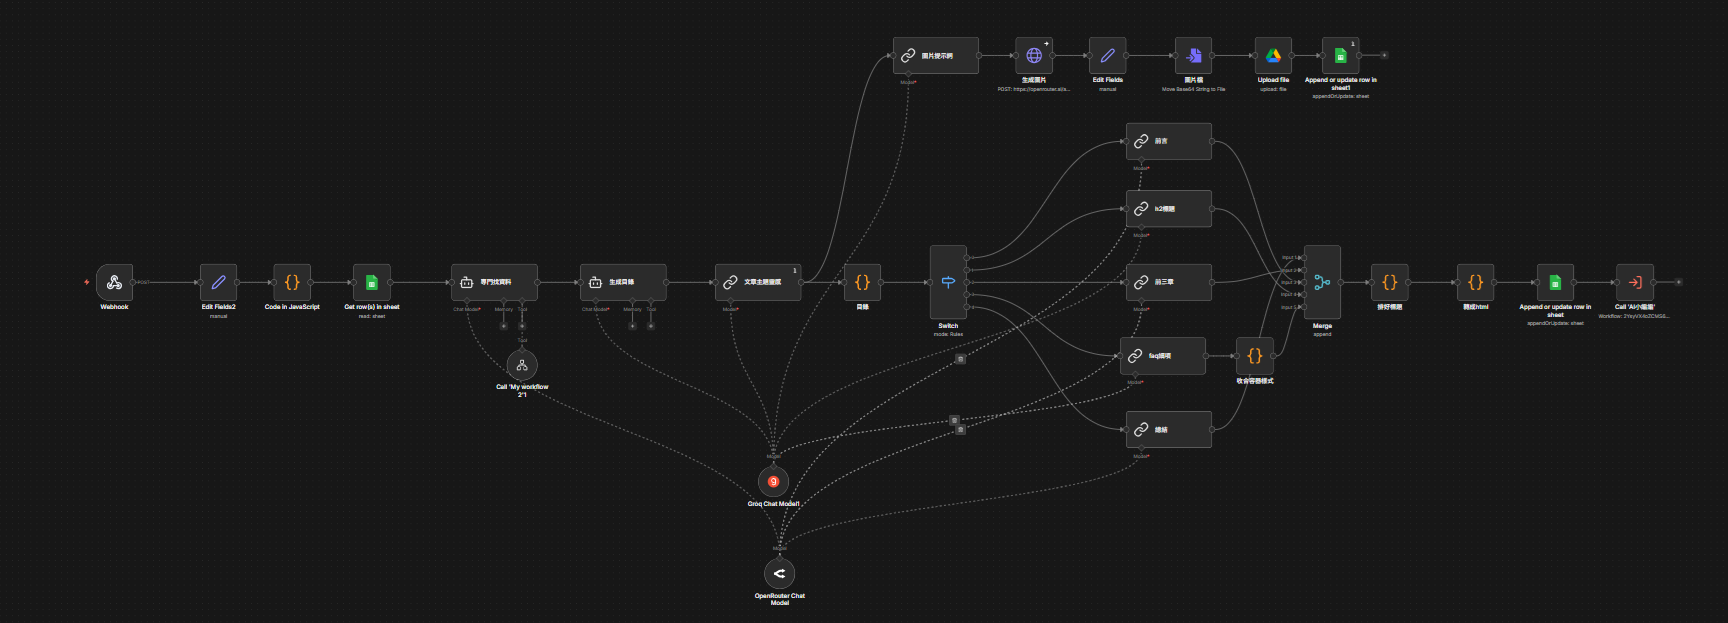
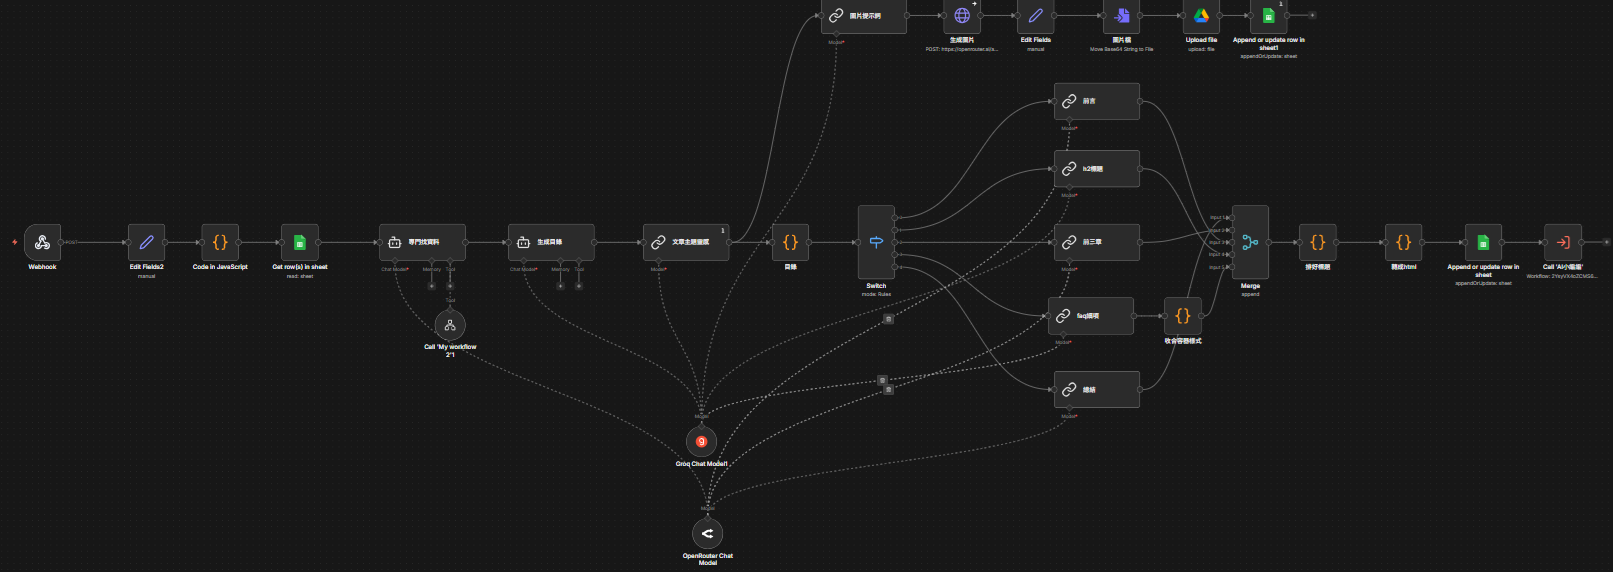
feat: 新增作品集「新聞電子報工作流」+ 修正各作品截圖空白裁切

diff --git a/components/portfolio/PortfolioTabs.tsx b/components/portfolio/PortfolioTabs.tsx
@@ -100,6 +100,36 @@ function MarketingIcon({ active }: { active: boolean }) {
   )
 }
 
+function NewsletterIcon({ active }: { active: boolean }) {
+  return (
+    <svg viewBox="0 0 32 32" width={22} height={22} style={{ display: 'block' }}>
+      <defs>
+        <linearGradient id="p-newsletter-grad" x1="0" y1="0" x2="32" y2="32" gradientUnits="userSpaceOnUse">
+          <stop offset="0%" stopColor="#22c55e" />
+          <stop offset="100%" stopColor="#86efac" />
+        </linearGradient>
+      </defs>
+      {/* clock / schedule trigger */}
+      <circle cx="8" cy="16" r="5"
+        fill={active ? 'rgba(34,197,94,0.2)' : 'none'}
+        stroke={active ? '#22c55e' : '#14532d'}
+        strokeWidth="1.5"
+      />
+      <path d="M8 13v3.5l2 1.5" stroke={active ? '#22c55e' : '#14532d'} strokeWidth="1.2" strokeLinecap="round" fill="none" />
+      {/* connector */}
+      <line x1="13" y1="16" x2="17" y2="16" stroke={active ? '#22c55e' : '#14532d'} strokeWidth="1.5" strokeLinecap="round" />
+      {/* envelope / email */}
+      <rect x="17" y="11" width="11" height="9" rx="1.5"
+        fill={active ? 'url(#p-newsletter-grad)' : 'none'}
+        stroke={active ? '#86efac' : '#14532d'}
+        strokeWidth="1.5"
+        opacity={active ? 0.9 : 1}
+      />
+      <path d="M17 12.5l5.5 4 5.5-4" stroke={active ? '#fff' : '#14532d'} strokeWidth="1" fill="none" strokeLinecap="round" />
+    </svg>
+  )
+}
+
 function SparklesIcon({ active }: { active: boolean }) {
   return (
     <svg viewBox="0 0 32 32" width={22} height={22} style={{ display: 'block' }}>
@@ -497,7 +527,7 @@ function ComingSoon() {
 
 /* ─── main component ─── */
 export default function PortfolioTabs() {
-  const [active, setActive] = useState<'teaching' | 'monitoring' | 'marketing' | 'more'>('teaching')
+  const [active, setActive] = useState<'teaching' | 'monitoring' | 'marketing' | 'newsletter' | 'more'>('teaching')
 
   const monitoringStack = [
     'Node.js', 'Express', 'React', 'Vite', 'SQLite', 'Docker', 'RESTful API', 'LINE Messaging API',
@@ -609,6 +639,13 @@ export default function PortfolioTabs() {
             label="行銷文章生成工作流"
             sub="n8n · 2026"
             onClick={() => setActive('marketing')}
+          />
+          <TabPill
+            active={active === 'newsletter'}
+            icon={<NewsletterIcon active={active === 'newsletter'} />}
+            label="新聞電子報工作流"
+            sub="n8n · 2026"
+            onClick={() => setActive('newsletter')}
           />
           <TabPill
             active={active === 'more'}
@@ -1072,6 +1109,211 @@ export default function PortfolioTabs() {
                     </div>
                   </div>
                 ))}
+              </div>
+            </div>
+          </div>
+        )}
+
+        {active === 'newsletter' && (
+          <div key="newsletter" style={{ animation: 'fade-in-up 300ms ease both' }}>
+
+            {/* row 1: title + workflow canvas */}
+            <div
+              style={{
+                display: 'grid',
+                gridTemplateColumns: 'minmax(0,42fr) minmax(0,58fr)',
+                gap: 48,
+                alignItems: 'start',
+                marginBottom: 40,
+              }}
+              className="portfolio-grid"
+            >
+              {/* left */}
+              <div style={{ order: 0 }}>
+                <div style={{ display: 'flex', alignItems: 'center', gap: 12, marginBottom: 16 }}>
+                  <StatusBadge status="已上線" />
+                </div>
+                <h2 style={{
+                  fontSize: 'clamp(22px, 3vw, 28px)', fontWeight: 700,
+                  color: '#fff', letterSpacing: '-0.02em', marginBottom: 8,
+                }}>
+                  新聞趨勢整合電子報工作流
+                </h2>
+                <p style={{
+                  fontSize: 13, fontFamily: 'var(--font-jetbrains), monospace',
+                  color: '#22c55e', letterSpacing: '0.02em', marginBottom: 24,
+                }}>
+                  「每日自動搜尋 AI 議題，整合成可讀新聞摘要寄出」
+                </p>
+                <div>
+                  <p style={{
+                    fontSize: 10, fontFamily: 'var(--font-jetbrains), monospace',
+                    color: '#475569', letterSpacing: '0.1em', textTransform: 'uppercase' as const,
+                    marginBottom: 10,
+                  }}>TECH STACK</p>
+                  <div style={{ display: 'flex', flexWrap: 'wrap' as const, gap: 6 }}>
+                    {['n8n', 'Schedule Trigger', 'Google News', '/scrape', 'Groq API', 'OpenRouter API', 'Google Sheets', 'Gmail'].map((t) => (
+                      <span key={t} style={{
+                        padding: '3px 10px', borderRadius: 6,
+                        fontSize: 11, fontFamily: 'var(--font-jetbrains), monospace',
+                        letterSpacing: '0.03em',
+                        border: '1px solid rgba(34,197,94,0.3)',
+                        background: 'rgba(34,197,94,0.07)',
+                        color: '#86efac',
+                        whiteSpace: 'nowrap' as const,
+                      }}>{t}</span>
+                    ))}
+                  </div>
+                </div>
+              </div>
+
+              {/* right: n8n workflow canvas */}
+              <div style={{ order: 1 }}>
+                <div style={{
+                  borderRadius: 12,
+                  border: '1px solid rgba(34,197,94,0.3)',
+                  overflow: 'hidden',
+                  boxShadow: '0 0 0 1px rgba(34,197,94,0.12), 0 24px 60px rgba(34,197,94,0.1), 0 4px 16px rgba(0,0,0,0.6)',
+                  background: '#111218',
+                }}>
+                  <div style={{
+                    display: 'flex', alignItems: 'center', gap: 10,
+                    padding: '10px 14px',
+                    background: '#0d0e1a',
+                    borderBottom: '1px solid rgba(34,197,94,0.2)',
+                  }}>
+                    <div style={{ display: 'flex', gap: 5, flexShrink: 0 }}>
+                      {['#ff5f56', '#ffbd2e', '#27c93f'].map((c) => (
+                        <div key={c} style={{ width: 9, height: 9, borderRadius: '50%', background: c, opacity: 0.85 }} />
+                      ))}
+                    </div>
+                    <div style={{
+                      flex: 1,
+                      background: 'rgba(255,255,255,0.04)',
+                      border: '1px solid rgba(255,255,255,0.07)',
+                      borderRadius: 5, padding: '3px 10px',
+                      fontSize: 11, fontFamily: 'var(--font-jetbrains), monospace',
+                      color: '#475569', letterSpacing: '0.02em',
+                    }}>
+                      電子報 · workflow.json
+                    </div>
+                    <div style={{
+                      display: 'flex', alignItems: 'center', gap: 5,
+                      padding: '2px 8px', borderRadius: 4,
+                      background: 'rgba(34,197,94,0.1)',
+                      border: '1px solid rgba(34,197,94,0.25)',
+                      fontSize: 10, fontFamily: 'var(--font-jetbrains), monospace',
+                      color: '#4ade80', letterSpacing: '0.08em',
+                    }}>
+                      <span style={{ width: 5, height: 5, borderRadius: '50%', background: '#22c55e', boxShadow: '0 0 5px #22c55e' }} />
+                      published
+                    </div>
+                  </div>
+                  <div style={{ position: 'relative', width: '100%', aspectRatio: '16/7' }}>
+                    <Image
+                      src="/works/newsletter-workflow.png"
+                      alt="新聞電子報 n8n 工作流截圖"
+                      fill
+                      style={{ objectFit: 'cover', objectPosition: 'top' }}
+                      sizes="(max-width: 768px) 100vw, 58vw"
+                      priority
+                    />
+                    <div style={{
+                      position: 'absolute', inset: 0,
+                      background: 'repeating-linear-gradient(0deg, transparent, transparent 2px, rgba(0,0,0,0.05) 2px, rgba(0,0,0,0.05) 4px)',
+                      pointerEvents: 'none',
+                    }} />
+                  </div>
+                </div>
+              </div>
+            </div>
+
+            {/* row 2: core purpose + features */}
+            <div
+              style={{ display: 'grid', gridTemplateColumns: '1fr 1fr', gap: 20, marginBottom: 20 }}
+              className="portfolio-blocks"
+            >
+              <div style={{
+                padding: '28px', borderRadius: 16,
+                background: 'rgba(255,255,255,0.02)', border: '1px solid rgba(255,255,255,0.07)',
+              }}>
+                <p style={{
+                  fontSize: 10, fontFamily: 'var(--font-jetbrains), monospace',
+                  color: '#22c55e', letterSpacing: '0.14em', textTransform: 'uppercase' as const,
+                  marginBottom: 14,
+                }}>// 核心用途</p>
+                <p style={{ fontSize: 14, color: '#e2e8f0', fontWeight: 600, lineHeight: 1.5, marginBottom: 12 }}>
+                  AI 新聞自動追蹤 + 電子報全自動生成
+                </p>
+                <p style={{ fontSize: 13.5, color: '#94a3b8', lineHeight: 1.8, marginBottom: 16 }}>
+                  Schedule Trigger 每日定時啟動，同步抓取三個 Google News 頻道的最新 AI 議題，自動爬取各文章全文，再交由 AI 整合成有觀點的摘要。
+                </p>
+                <p style={{ fontSize: 13.5, color: '#94a3b8', lineHeight: 1.8 }}>
+                  整合完成後格式化成電子報，寫入 Google Sheets 存檔，並透過 Gmail 自動寄送給訂閱者。底部 Webhook 節點支援訂閱者動態新增至名單。
+                </p>
+              </div>
+
+              <div style={{
+                padding: '28px', borderRadius: 16,
+                background: 'rgba(255,255,255,0.02)', border: '1px solid rgba(255,255,255,0.07)',
+              }}>
+                <p style={{
+                  fontSize: 10, fontFamily: 'var(--font-jetbrains), monospace',
+                  color: '#22c55e', letterSpacing: '0.14em', textTransform: 'uppercase' as const,
+                  marginBottom: 14,
+                }}>// 重點功能</p>
+                <div>
+                  {[
+                    { emoji: '⏰', title: '每日排程觸發', desc: 'Schedule Trigger 定時啟動，無需手動操作，每天自動執行一次' },
+                    { emoji: '📰', title: '多源 Google News 搜尋', desc: '平行抓取三個搜尋頻道，覆蓋 AI 工具發布、研究動態、產業趨勢' },
+                    { emoji: '🕷️', title: '全文爬蟲', desc: '/scrape 節點抓取文章原文，AI 有足夠內容生成有深度的摘要' },
+                    { emoji: '🤖', title: 'AI 雙模型摘要', desc: 'Groq + OpenRouter 並行處理，確保輸出品質與速度平衡' },
+                    { emoji: '📧', title: 'Gmail 自動發送', desc: '整合完成後直接寄出，支援訂閱者名單管理，Webhook 動態新增訂閱' },
+                  ].map((f) => <FeatureRow key={f.title} {...f} />)}
+                </div>
+              </div>
+            </div>
+
+            {/* row 3: email output preview */}
+            <div>
+              <p style={{
+                fontSize: 10, fontFamily: 'var(--font-jetbrains), monospace',
+                color: '#475569', letterSpacing: '0.14em', textTransform: 'uppercase' as const,
+                marginBottom: 16,
+              }}>// 輸出範例</p>
+              <div style={{
+                borderRadius: 12,
+                border: '1px solid rgba(34,197,94,0.25)',
+                overflow: 'hidden',
+                boxShadow: '0 0 0 1px rgba(34,197,94,0.1), 0 12px 32px rgba(0,0,0,0.5)',
+                background: '#0d0e1a',
+                maxWidth: 860,
+              }}>
+                <div style={{
+                  padding: '8px 14px',
+                  background: '#0d0e1a',
+                  borderBottom: '1px solid rgba(34,197,94,0.15)',
+                  display: 'flex', alignItems: 'center', gap: 8,
+                }}>
+                  <span style={{
+                    fontSize: 10, fontFamily: 'var(--font-jetbrains), monospace',
+                    color: '#22c55e', letterSpacing: '0.1em', textTransform: 'uppercase' as const,
+                  }}>Gmail · Q kangber 週報</span>
+                  <span style={{
+                    marginLeft: 'auto',
+                    fontSize: 10, fontFamily: 'var(--font-jetbrains), monospace',
+                    color: '#475569',
+                  }}>2026-05-11</span>
+                </div>
+                <div style={{ position: 'relative', width: '100%', aspectRatio: '16/9' }}>
+                  <Image
+                    src="/works/newsletter-email.png"
+                    alt="Q kangber 週報電子報輸出截圖"
+                    fill
+                    style={{ objectFit: 'cover', objectPosition: 'top' }}
+                    sizes="(max-width: 768px) 100vw, 860px"
+                  />
+                </div>
               </div>
             </div>
           </div>